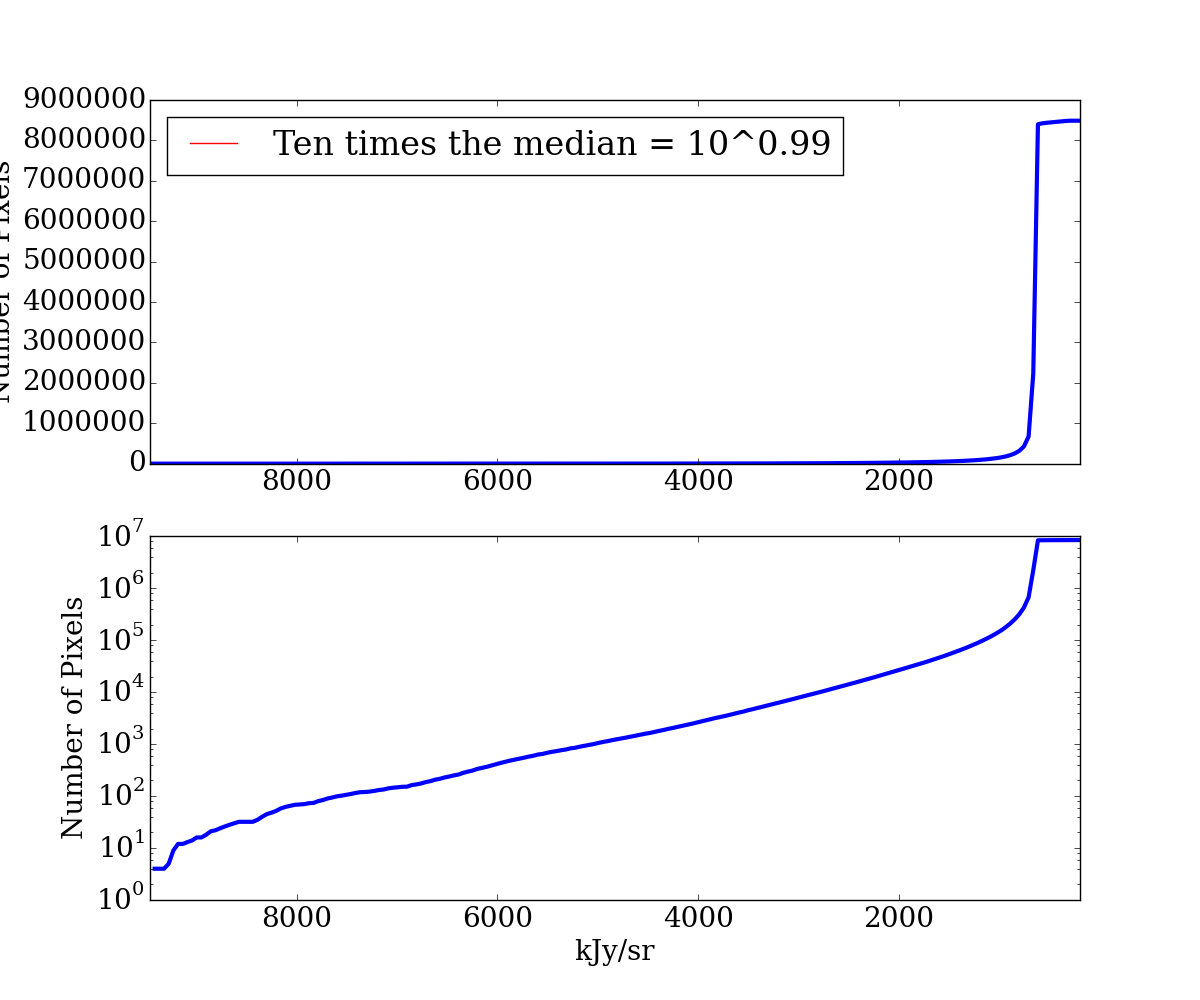
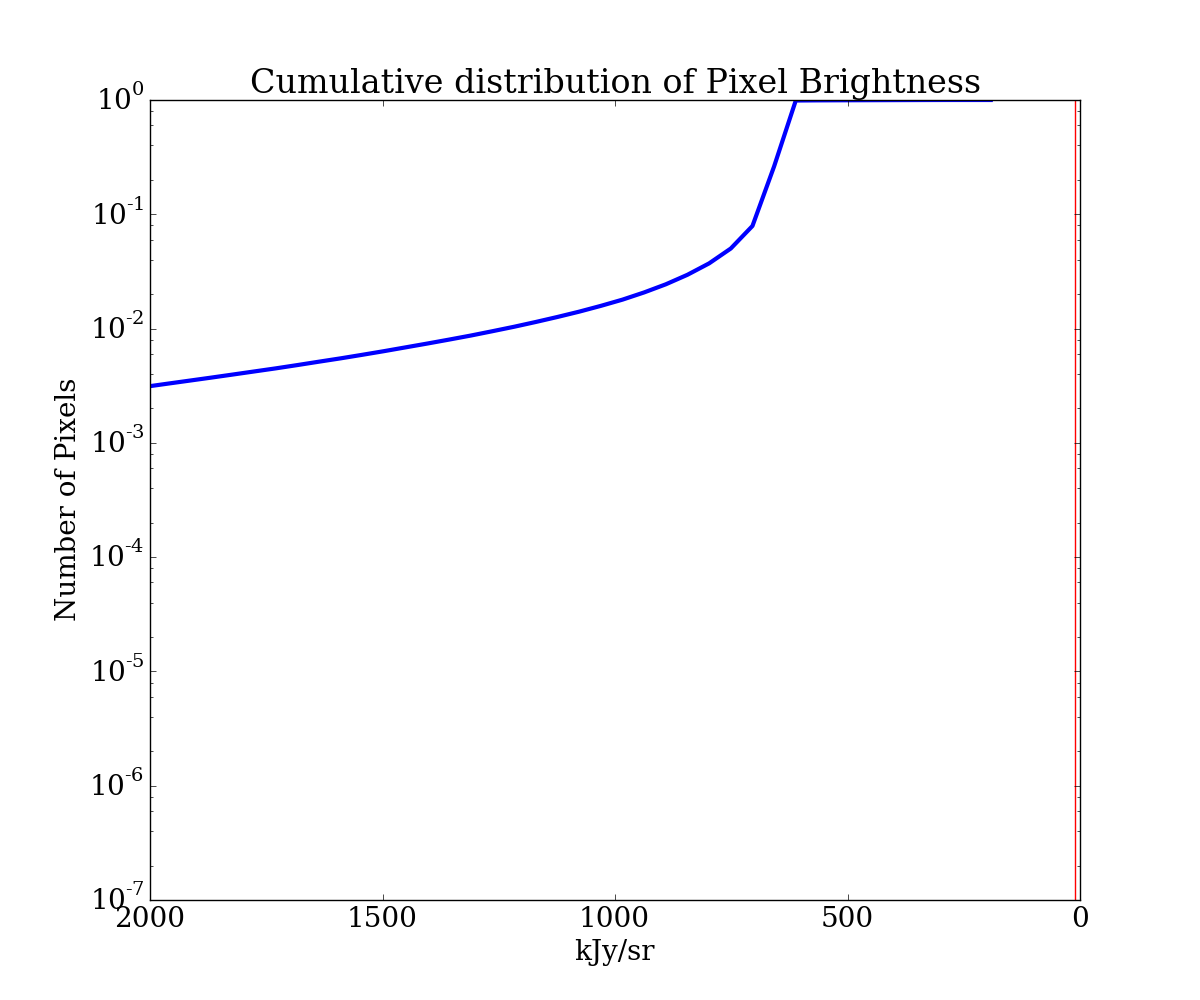
Making more masking plots

diff --git a/correlate.py b/correlate.py
@@ -186,16 +186,8 @@ for key in keys:
                     tlen = len(cdata.flatten())
                     plt.figure(figsize = (12,10))
                     plt.title('Cumulative distribution of Pixel Brightness')
-                    plt.subplot(211)
-                    plt.plot(base[:-1],tlen-cumulative,linewidth = 3)
-                    plt.xlim(max(base[:-1]),min(base[:-1]))
-                    plt.axvline(cutoff,color = 'red',
-                                label = howcutoff+str(round(log10(cutoff),2)))
-                    plt.legend(loc = 'best')
-                    plt.ylabel('Number of Pixels')
-                    plt.subplot(212)
-                    plt.semilogy(base[:-1],tlen-cumulative,linewidth = 3)
-                    plt.xlim(max(base[:-1]),min(base[:-1])) 
+                    plt.semilogy(base[:-1],(tlen-cumulative)/float(max(tlen-cumulative)),linewidth = 3)
+                    plt.xlim(2000,0) 
                     plt.axvline(cutoff,color = 'red')
                     plt.xlabel('kJy/sr')
                     plt.ylabel('Number of Pixels')
@@ -240,27 +232,6 @@ for key in keys:
                     newr,bg = subBGplane(r,t,p0)
                     if isinstance(newr,float) != True:
                         dflyheader['BACKSUB'] = 'TRUE'
-                        nbins = 200
-                        values,base = histogram(newr[where(r!= 0)],bins=nbins)
-                        cumulative = cumsum(values)
-                        tlen = len(newr[where(r!=0)])
-                        plt.figure(figsize = (12,10))
-                        plt.title('Cumulative distribution of Pixel Brightness')
-                        plt.subplot(211)
-                        plt.plot(base[:-1],tlen-cumulative,linewidth = 3)
-                        plt.xlim(max(base[:-1]),min(base[:-1]))
-                        #plt.axvline(cutoff,color = 'red',
-                        #            label = howcutoff+str(round(log10(cutoff),2)))
-                        #plt.legend(loc = 'best')
-                        plt.ylabel('Number of Pixels')
-                        plt.subplot(212)
-                        plt.semilogy(base[:-1],tlen-cumulative,linewidth = 3)
-                        plt.xlim(max(base[:-1]),min(base[:-1])) 
-                        #plt.axvline(cutoff,color = 'red')
-                        plt.xlabel('kJy/sr')
-                        plt.ylabel('Number of Pixels')
-                        plt.savefig('cumulativetest_bsub_'+skey+'.png')
-                        plt.close()
                         fits.writeto(gdi+bname,newr,dflyheader,clobber=True)
                         fits.writeto(bdi+spl+'_bgplane.fits',bg,dflyheader,clobber=True)
                         print 'Plotting'
